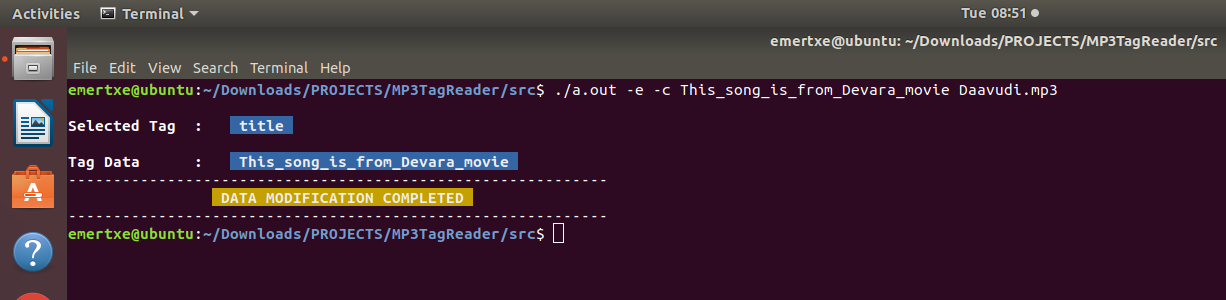
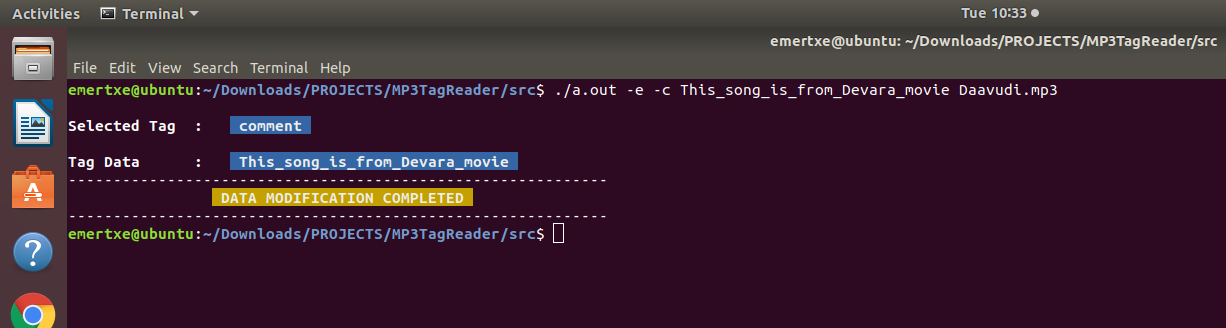
verification complete

diff --git a/src/ID3_edit.c b/src/ID3_edit.c
@@ -208,17 +208,17 @@ void copy_frameData(int size, FILE *fptr_src, FILE *fptr_dup)
  */
 char* print_tag(const char *frame_ids[], char *tag)
 {
-    if(strcmp(frame_ids[0], tag))   return  "title";
+    if(!strcmp(frame_ids[0], tag))   return  "title";
 
-    else if(strcmp(frame_ids[1], tag))   return  "artist";
+    else if(!strcmp(frame_ids[1], tag))   return  "artist";
 
-    else if(strcmp(frame_ids[2], tag))   return  "album";
+    else if(!strcmp(frame_ids[2], tag))   return  "album";
 
-    else if(strcmp(frame_ids[3], tag))   return  "year";
+    else if(!strcmp(frame_ids[3], tag))   return  "year";
 
-    else if(strcmp(frame_ids[4], tag))   return  "content_type";
+    else if(!strcmp(frame_ids[4], tag))   return  "content_type";
 
-    else if(strcmp(frame_ids[5], tag))   return  "comment";
+    else if(!strcmp(frame_ids[5], tag))   return  "comment";
 
     else return NULL;
 }

diff --git a/README.md b/README.md
@@ -1,7 +1,7 @@
 # MP3_Tag_Reader_Project
 
 ## Overview
-The **MP3 Tag Reader** project is designed to extract and display metadata from MP3 files, such as song title, artist, album,   year, genre, and other ID3 tag information. This tool allows users to retrieve and analyze MP3 metadata efficiently, making it useful for media organization, music library management, and automated tagging processes.
+The **MP3 Tag Reader** project is designed to extract and display metadata from MP3 files, such as song title, artist, album,   year, content type, and other ID3 tag information. This tool allows users to retrieve and analyze MP3 metadata efficiently, making it useful for media organization, music library management, and automated tagging processes.
 
 ## Features
 
